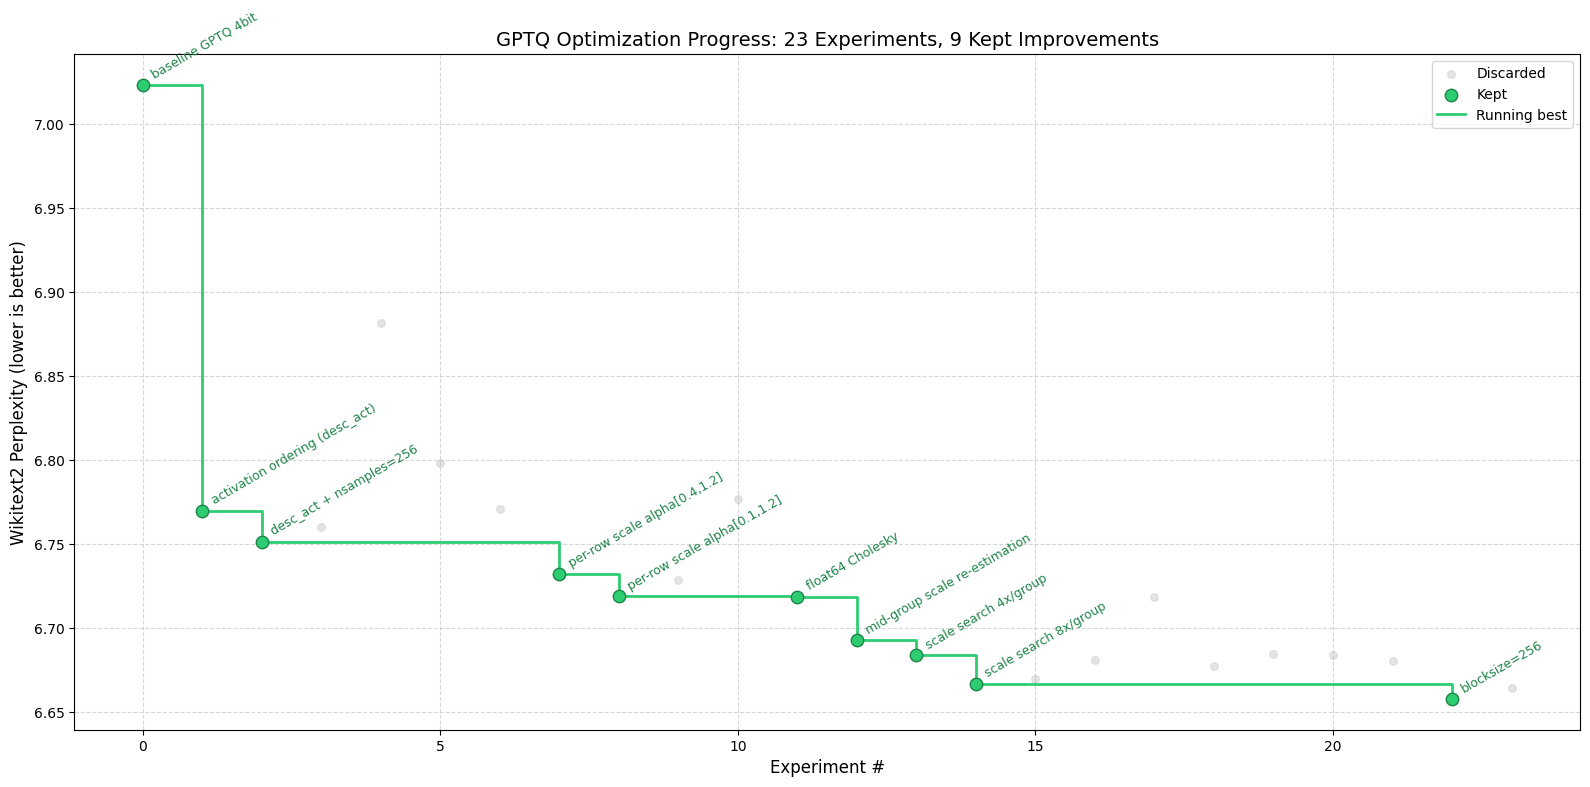
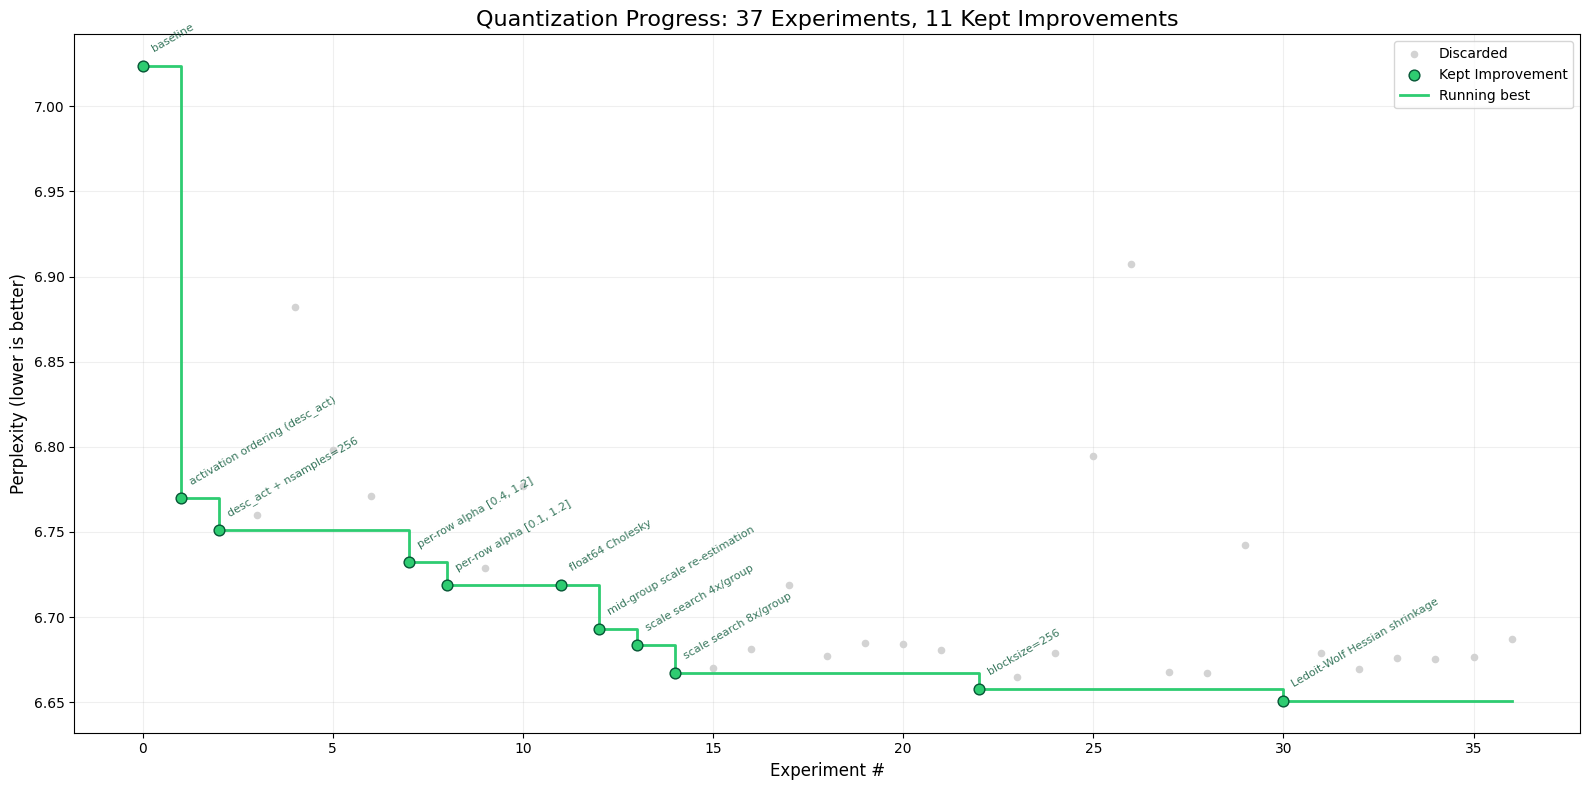
Updated README.md and figure in assets

diff --git a/README.md b/README.md
@@ -14,4 +14,21 @@ The repo is deliberately kept small and only really has five files that matter:
 - **quantizer.py** — the quantizer class
 - **data_utils.py** — data preparation utilities
 - **eval_perplexity.py** — perplexity evaluation script
-- **program.md** — the experiment description
+- **program.md** — the experiment description for the agent
+
+The starting point is vanilla [GPTQ](https://arxiv.org/abs/2210.17323) implementation without any additional tweaks or modifications. The model is quantized using the `quantize.py` script, which is a modified version of the original GPTQ script and saved.
+After the quantization, the perplexity is evaluated using the `eval_perplexity.py` script.
+
+The goal of the agent is to achieve as small perplexity as possible for a fixed quantization configuration - (bits, groupsize, symmetric).
+
+## Quick start
+
+* Prepare environment with up-to-date `torch`, `transformers`, and `datasets` packages.
+
+## Running the agent
+
+Prompt something like this:
+```
+Hi have a look at program.md and let's kick off a new experiment! let's do the setup first.
+```
+During the experiment the agent with ask which model to quantize. In the example provided above, the agent quantizes `Llama-3.1-8B-Instruct`.
